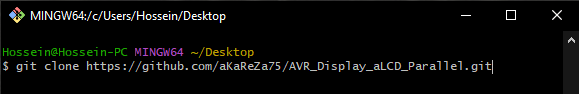
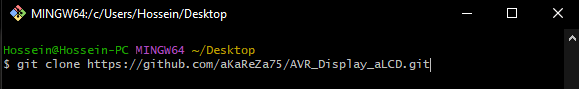
Update Step Images

diff --git a/README.md b/README.md
@@ -420,7 +420,7 @@ First, open **Git Bash** :
 -  Once **Git Bash** is open, run the following command to clone the repository:
 
  ```bash
-git clone https://github.com/aKaReZa75/AVR_Display_aLCD_Parallel.git
+git clone https://github.com/aKaReZa75/AVR_Display_aLCD.git
 ```
 - You can copy the above command by either:
 - Clicking on the **Copy** button on the right of the command.
